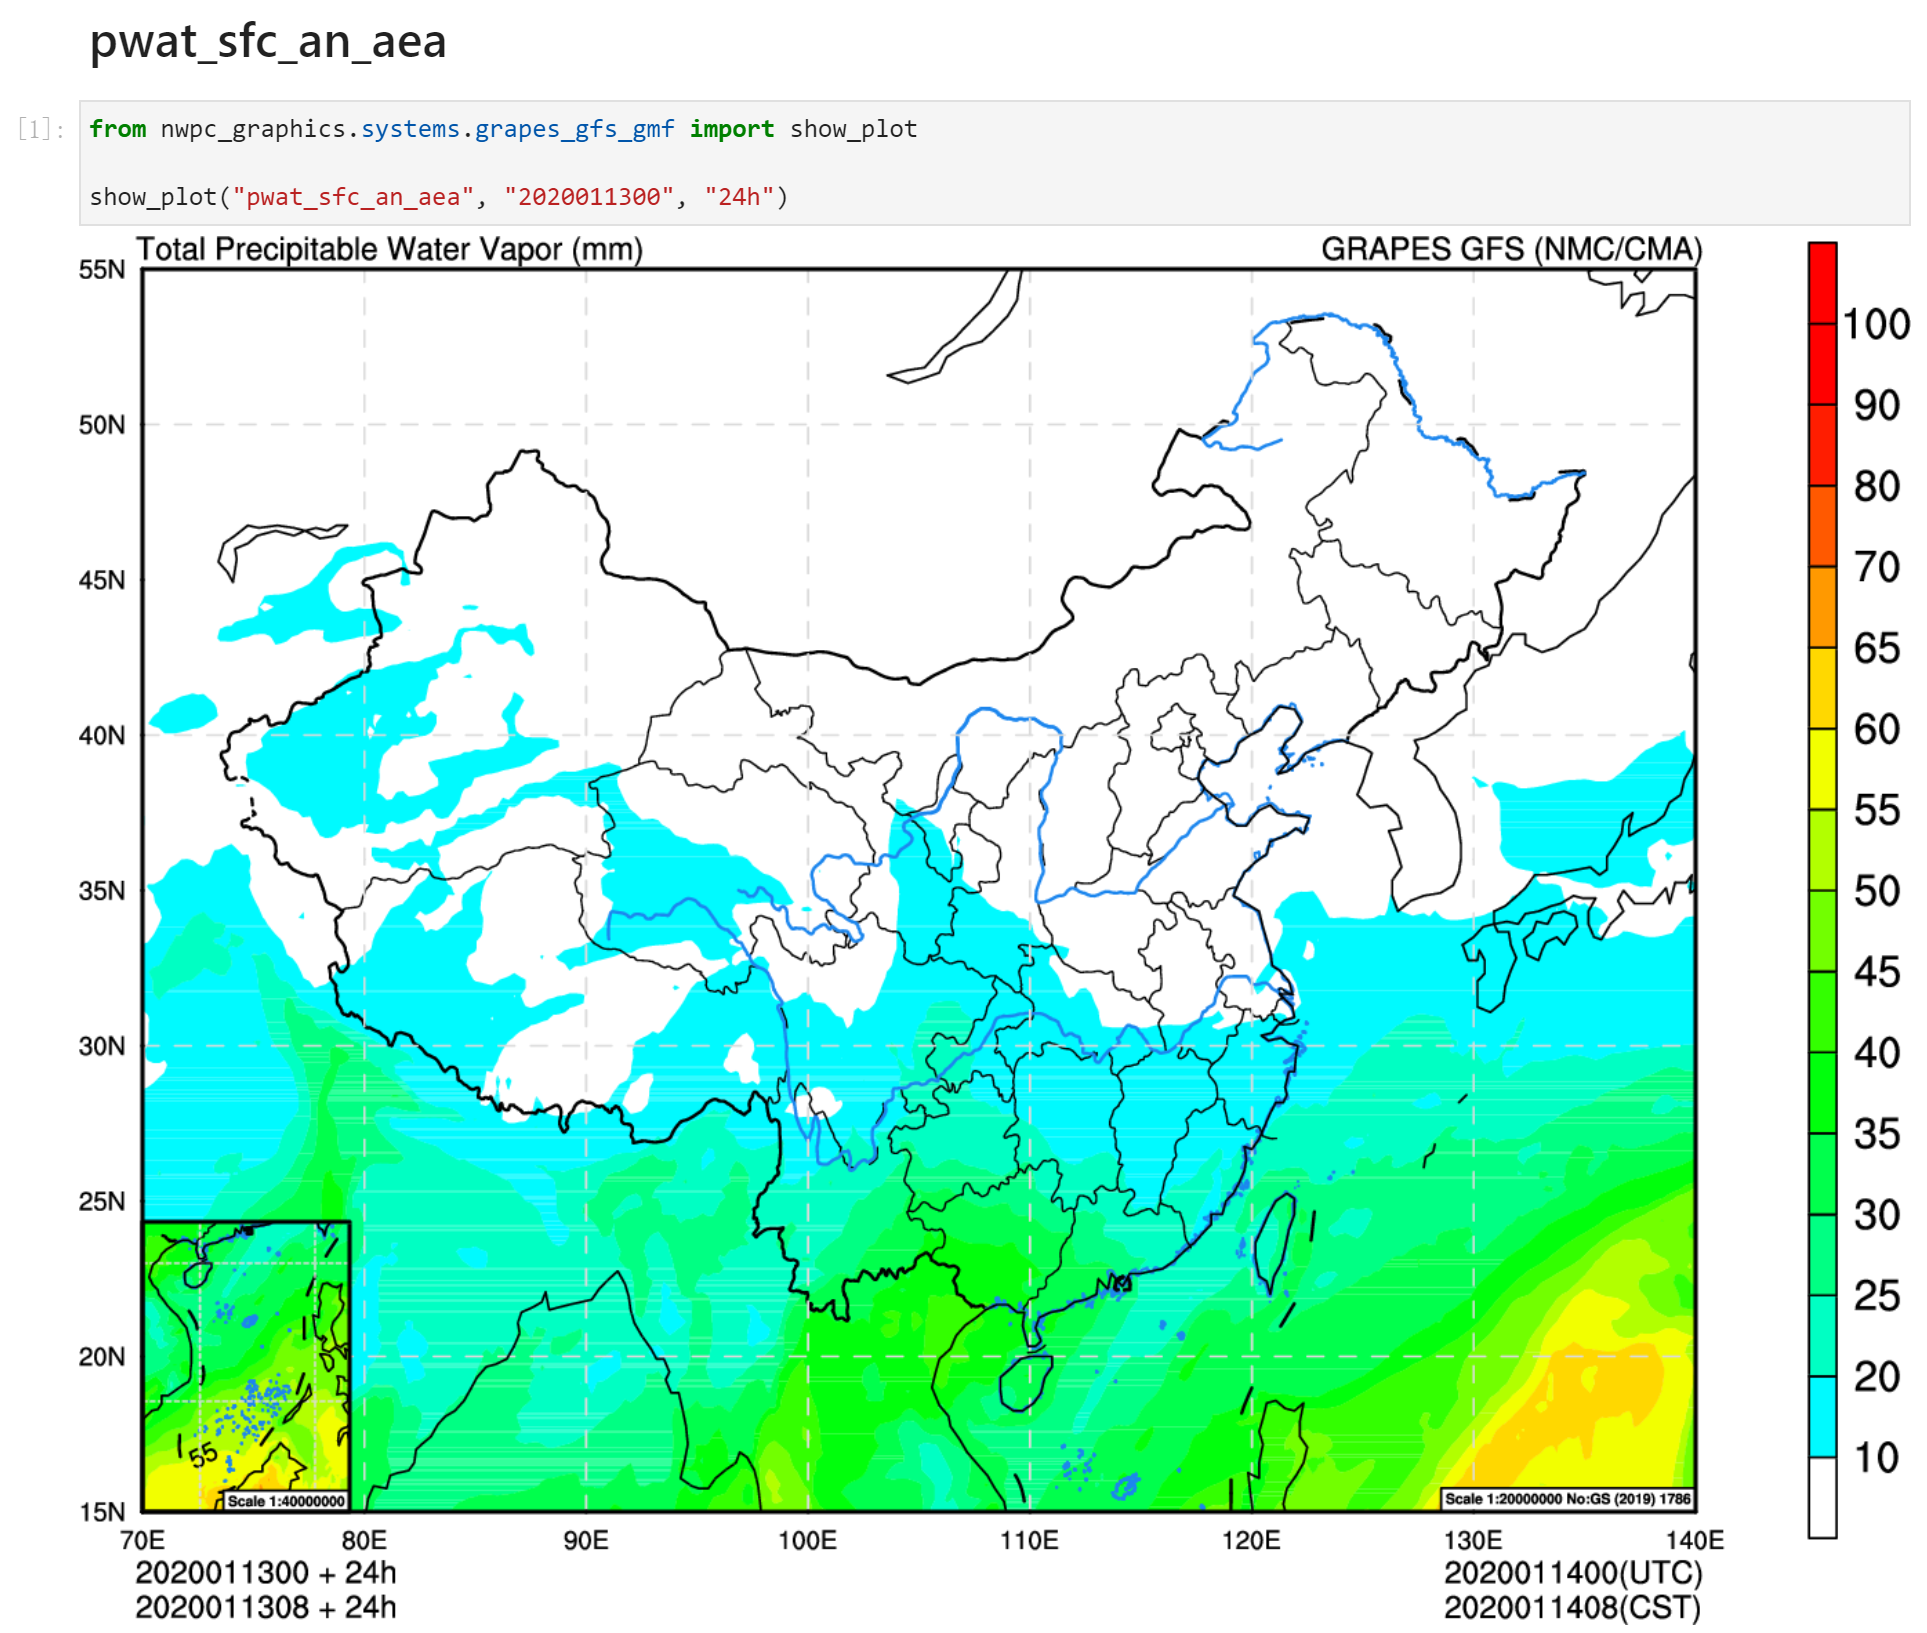
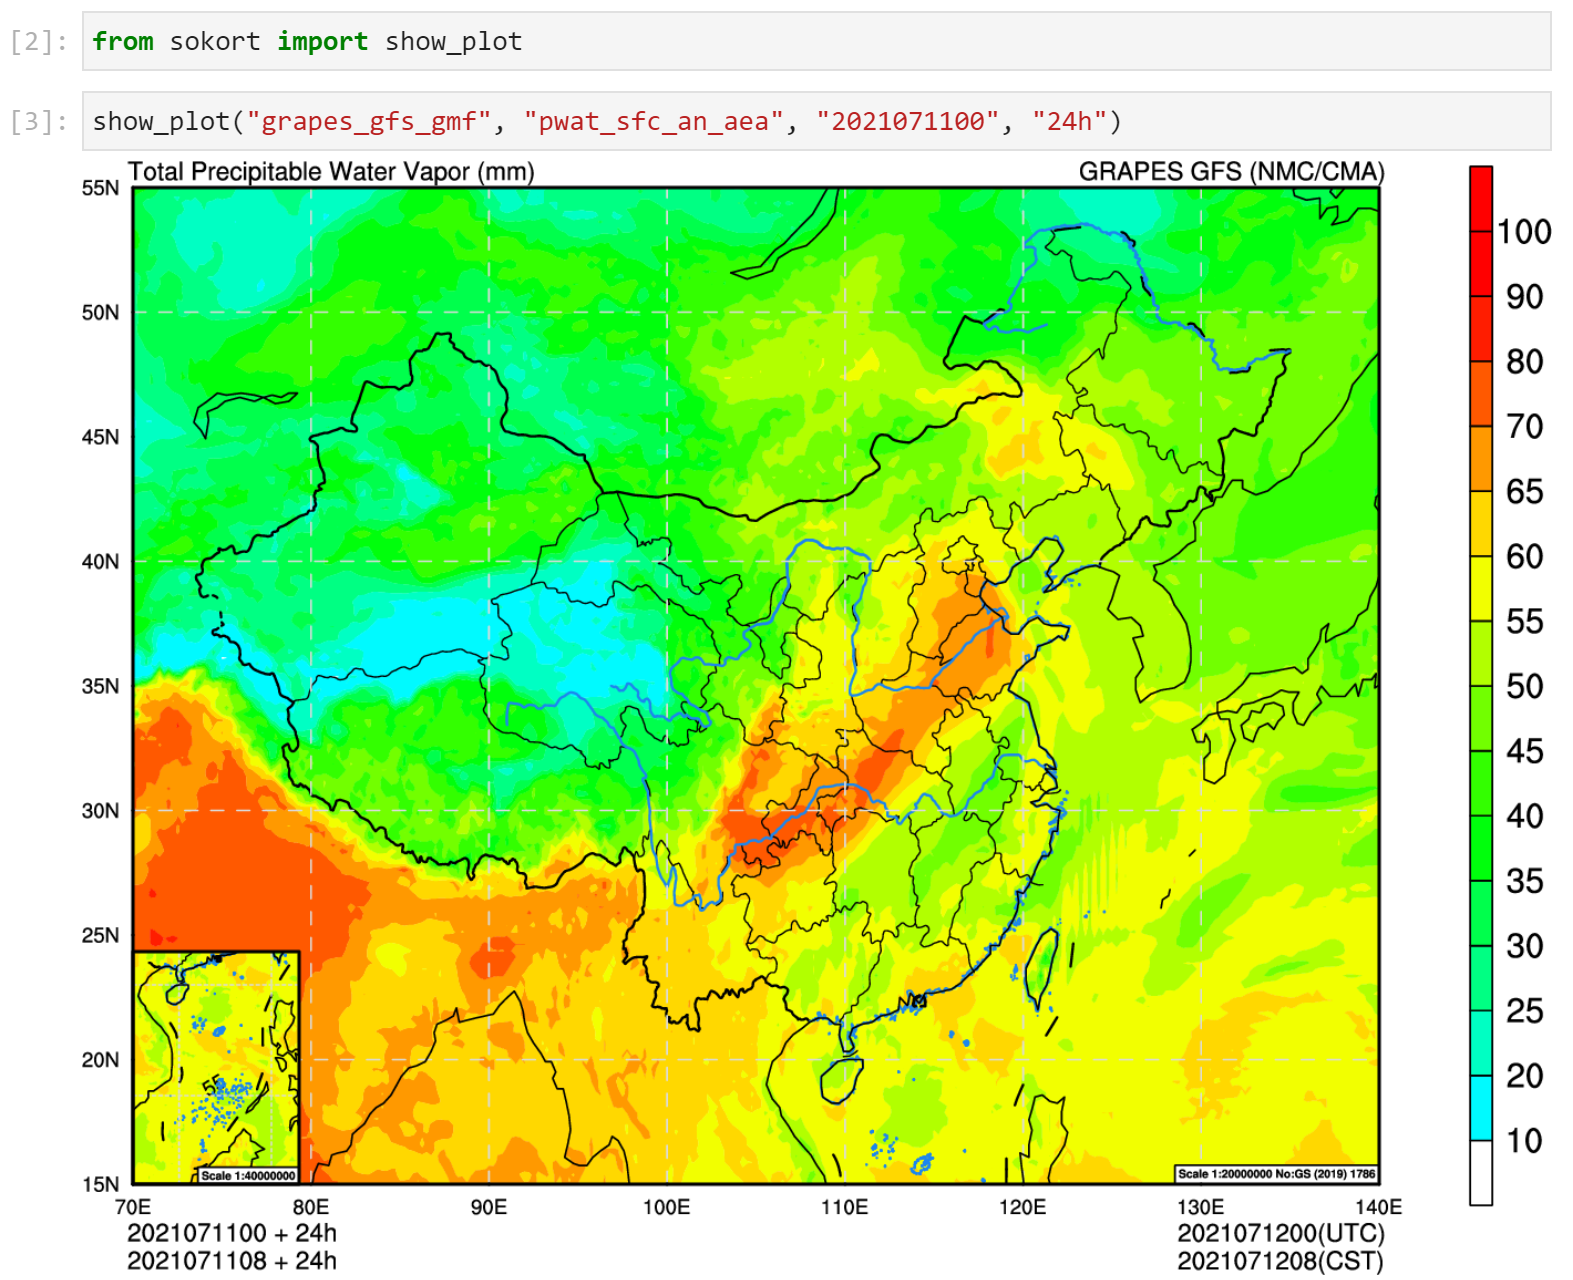
:bulb: update example pic.

diff --git a/README.md b/README.md
@@ -36,12 +36,12 @@
 
 在 Anaconda 环境中启动 Jupyter Notebook。
 
-执行下面的代码绘制并显示 GRAPES GFS 全球预报系统 2020 年 1 月 13 日 00 时次 24 小时的整层可降水量。
+执行下面的代码绘制并显示 GRAPES GFS 全球预报系统 2021 年 7 月 11 日 00 时次 24 小时的整层可降水量。
 
 ```python
 from sokort import show_plot
 
-show_plot("grapes_gfs_gmf", "pwat_sfc_an_aea", "2020011300", "24h")
+show_plot("grapes_gfs_gmf", "pwat_sfc_an_aea", "2021071100", "24h")
 ```
 
 在Jupyter Notebook中运行效果如下图所示
@@ -59,7 +59,7 @@ show_plot("grapes_gfs_gmf", "pwat_sfc_an_aea", "2020011300", "24h")
 python -m sokort show \
     --system=grapes_gfs_gmf \
     --plot-type=pwat_sfc_an_aea \
-    --start-time=2020011300 \
+    --start-time=2021071100 \
     --forecast-time=24h
 ```
 
